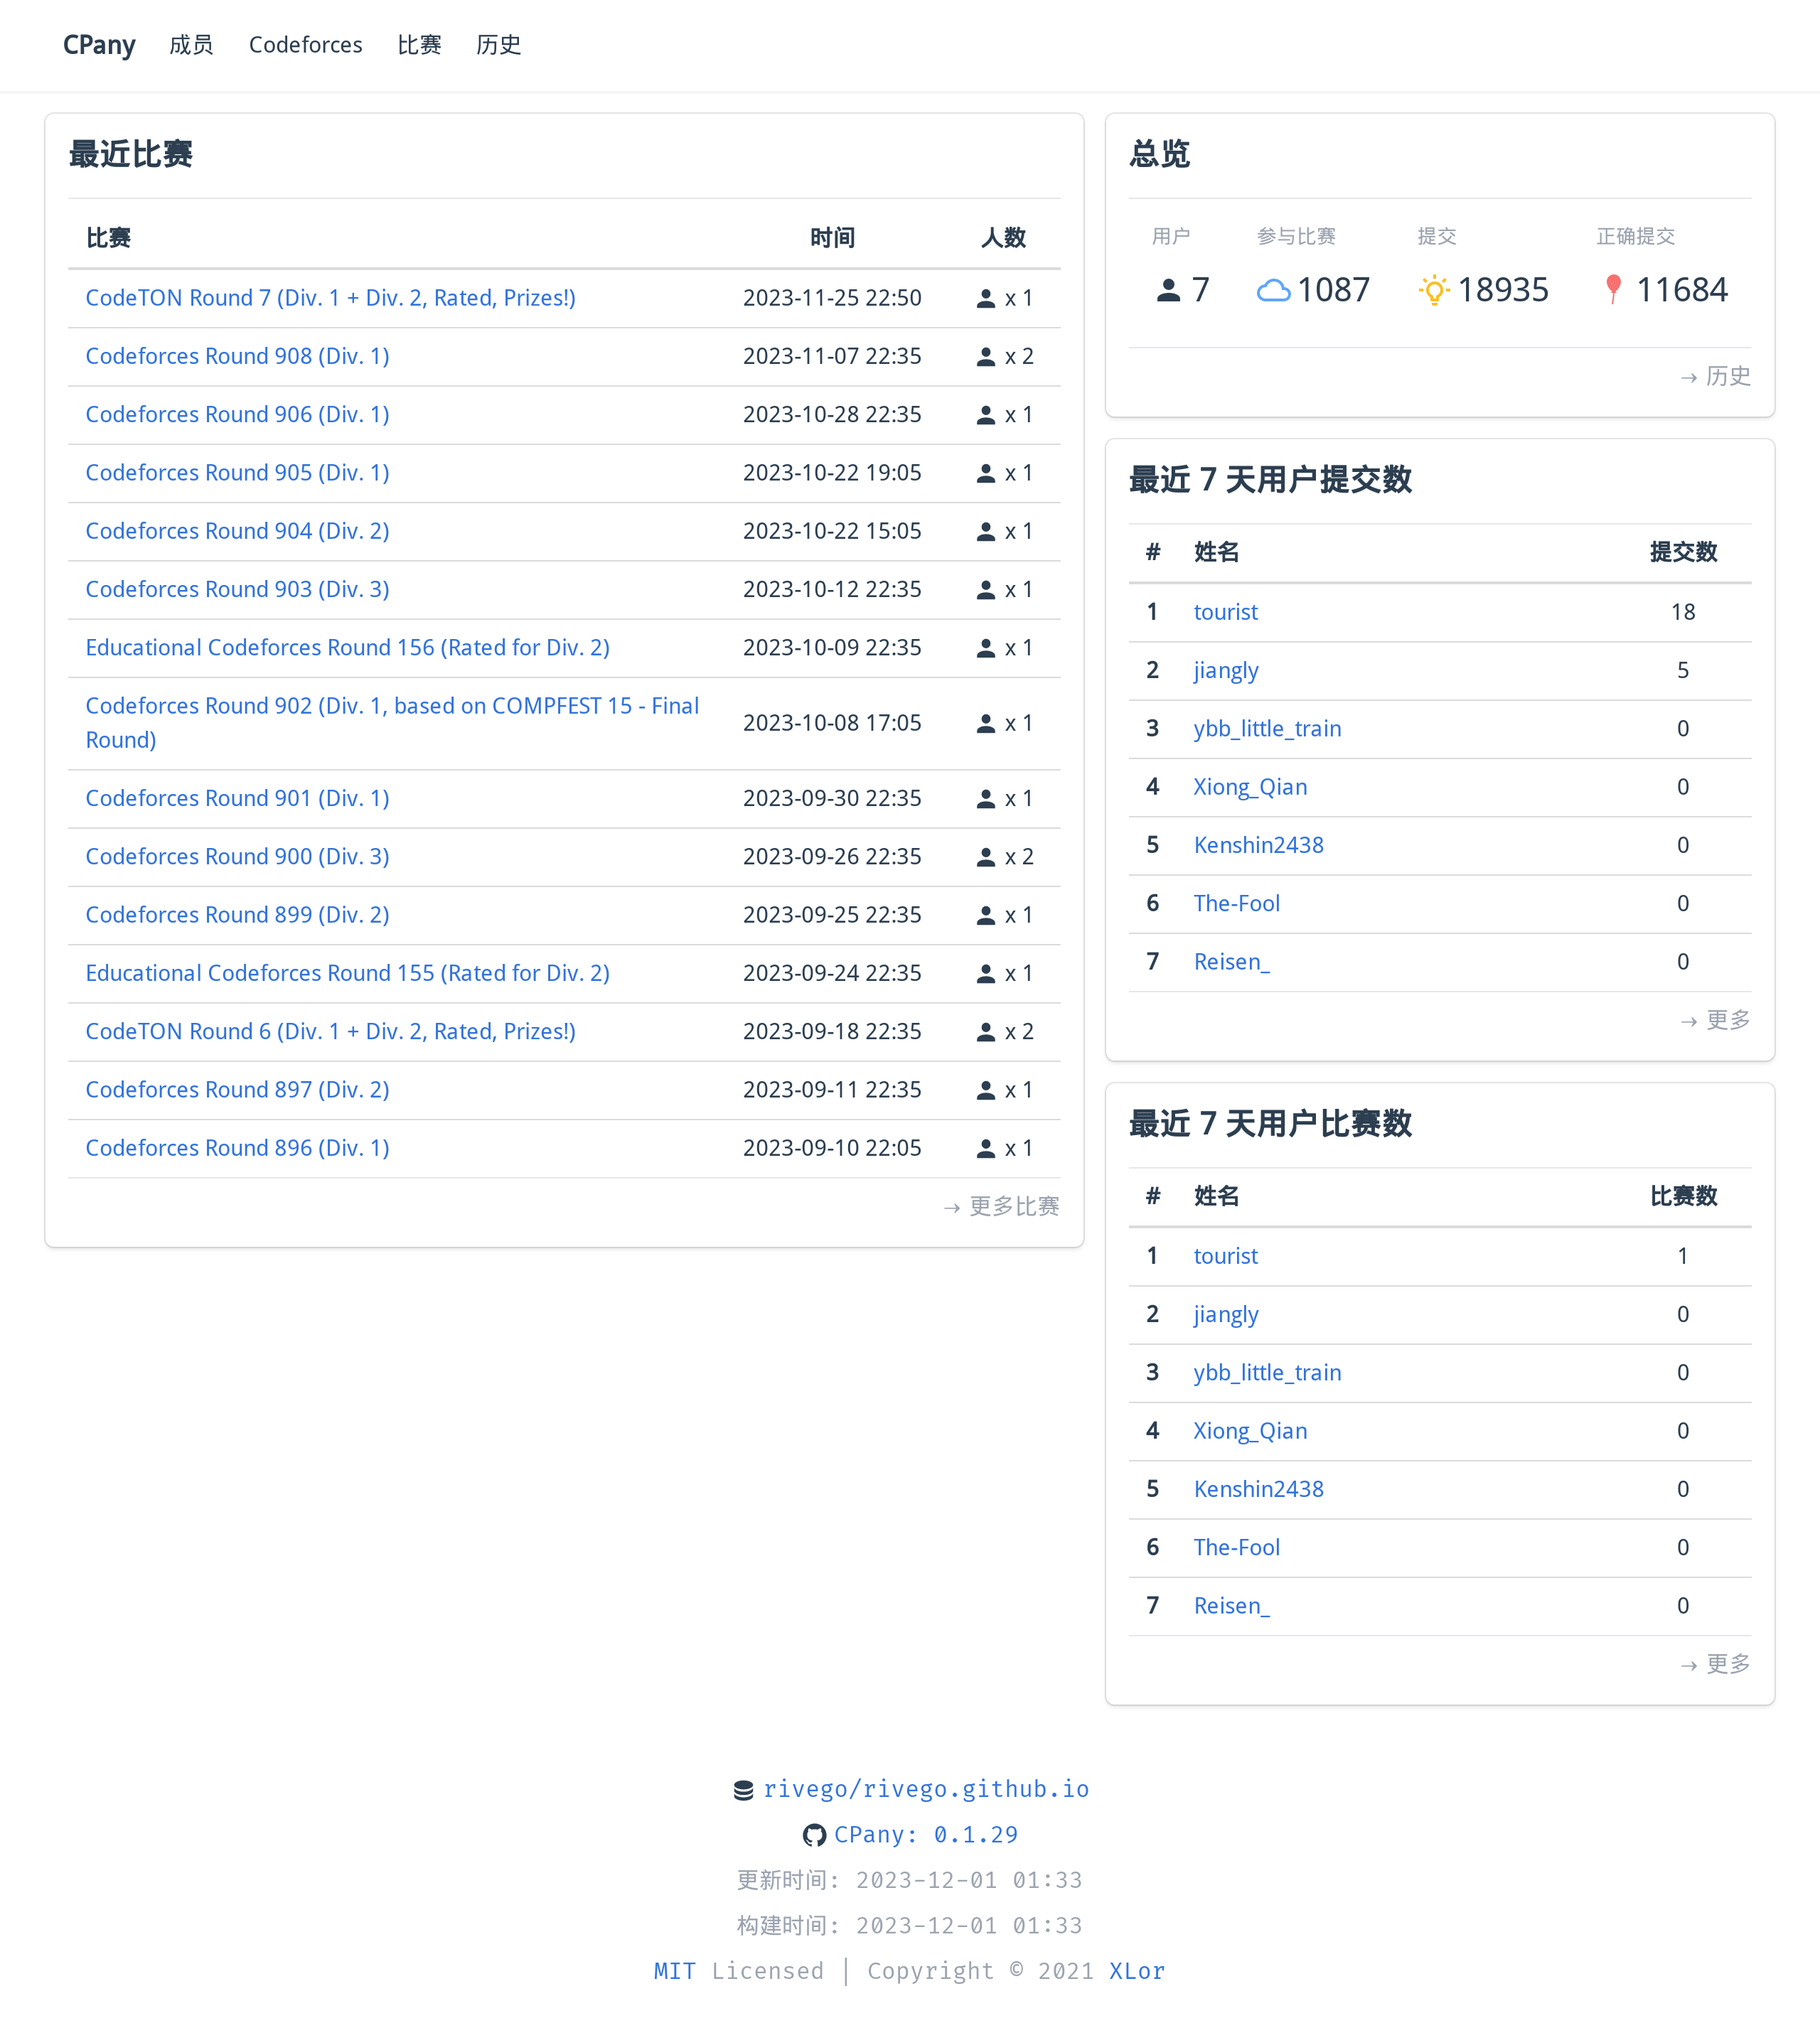
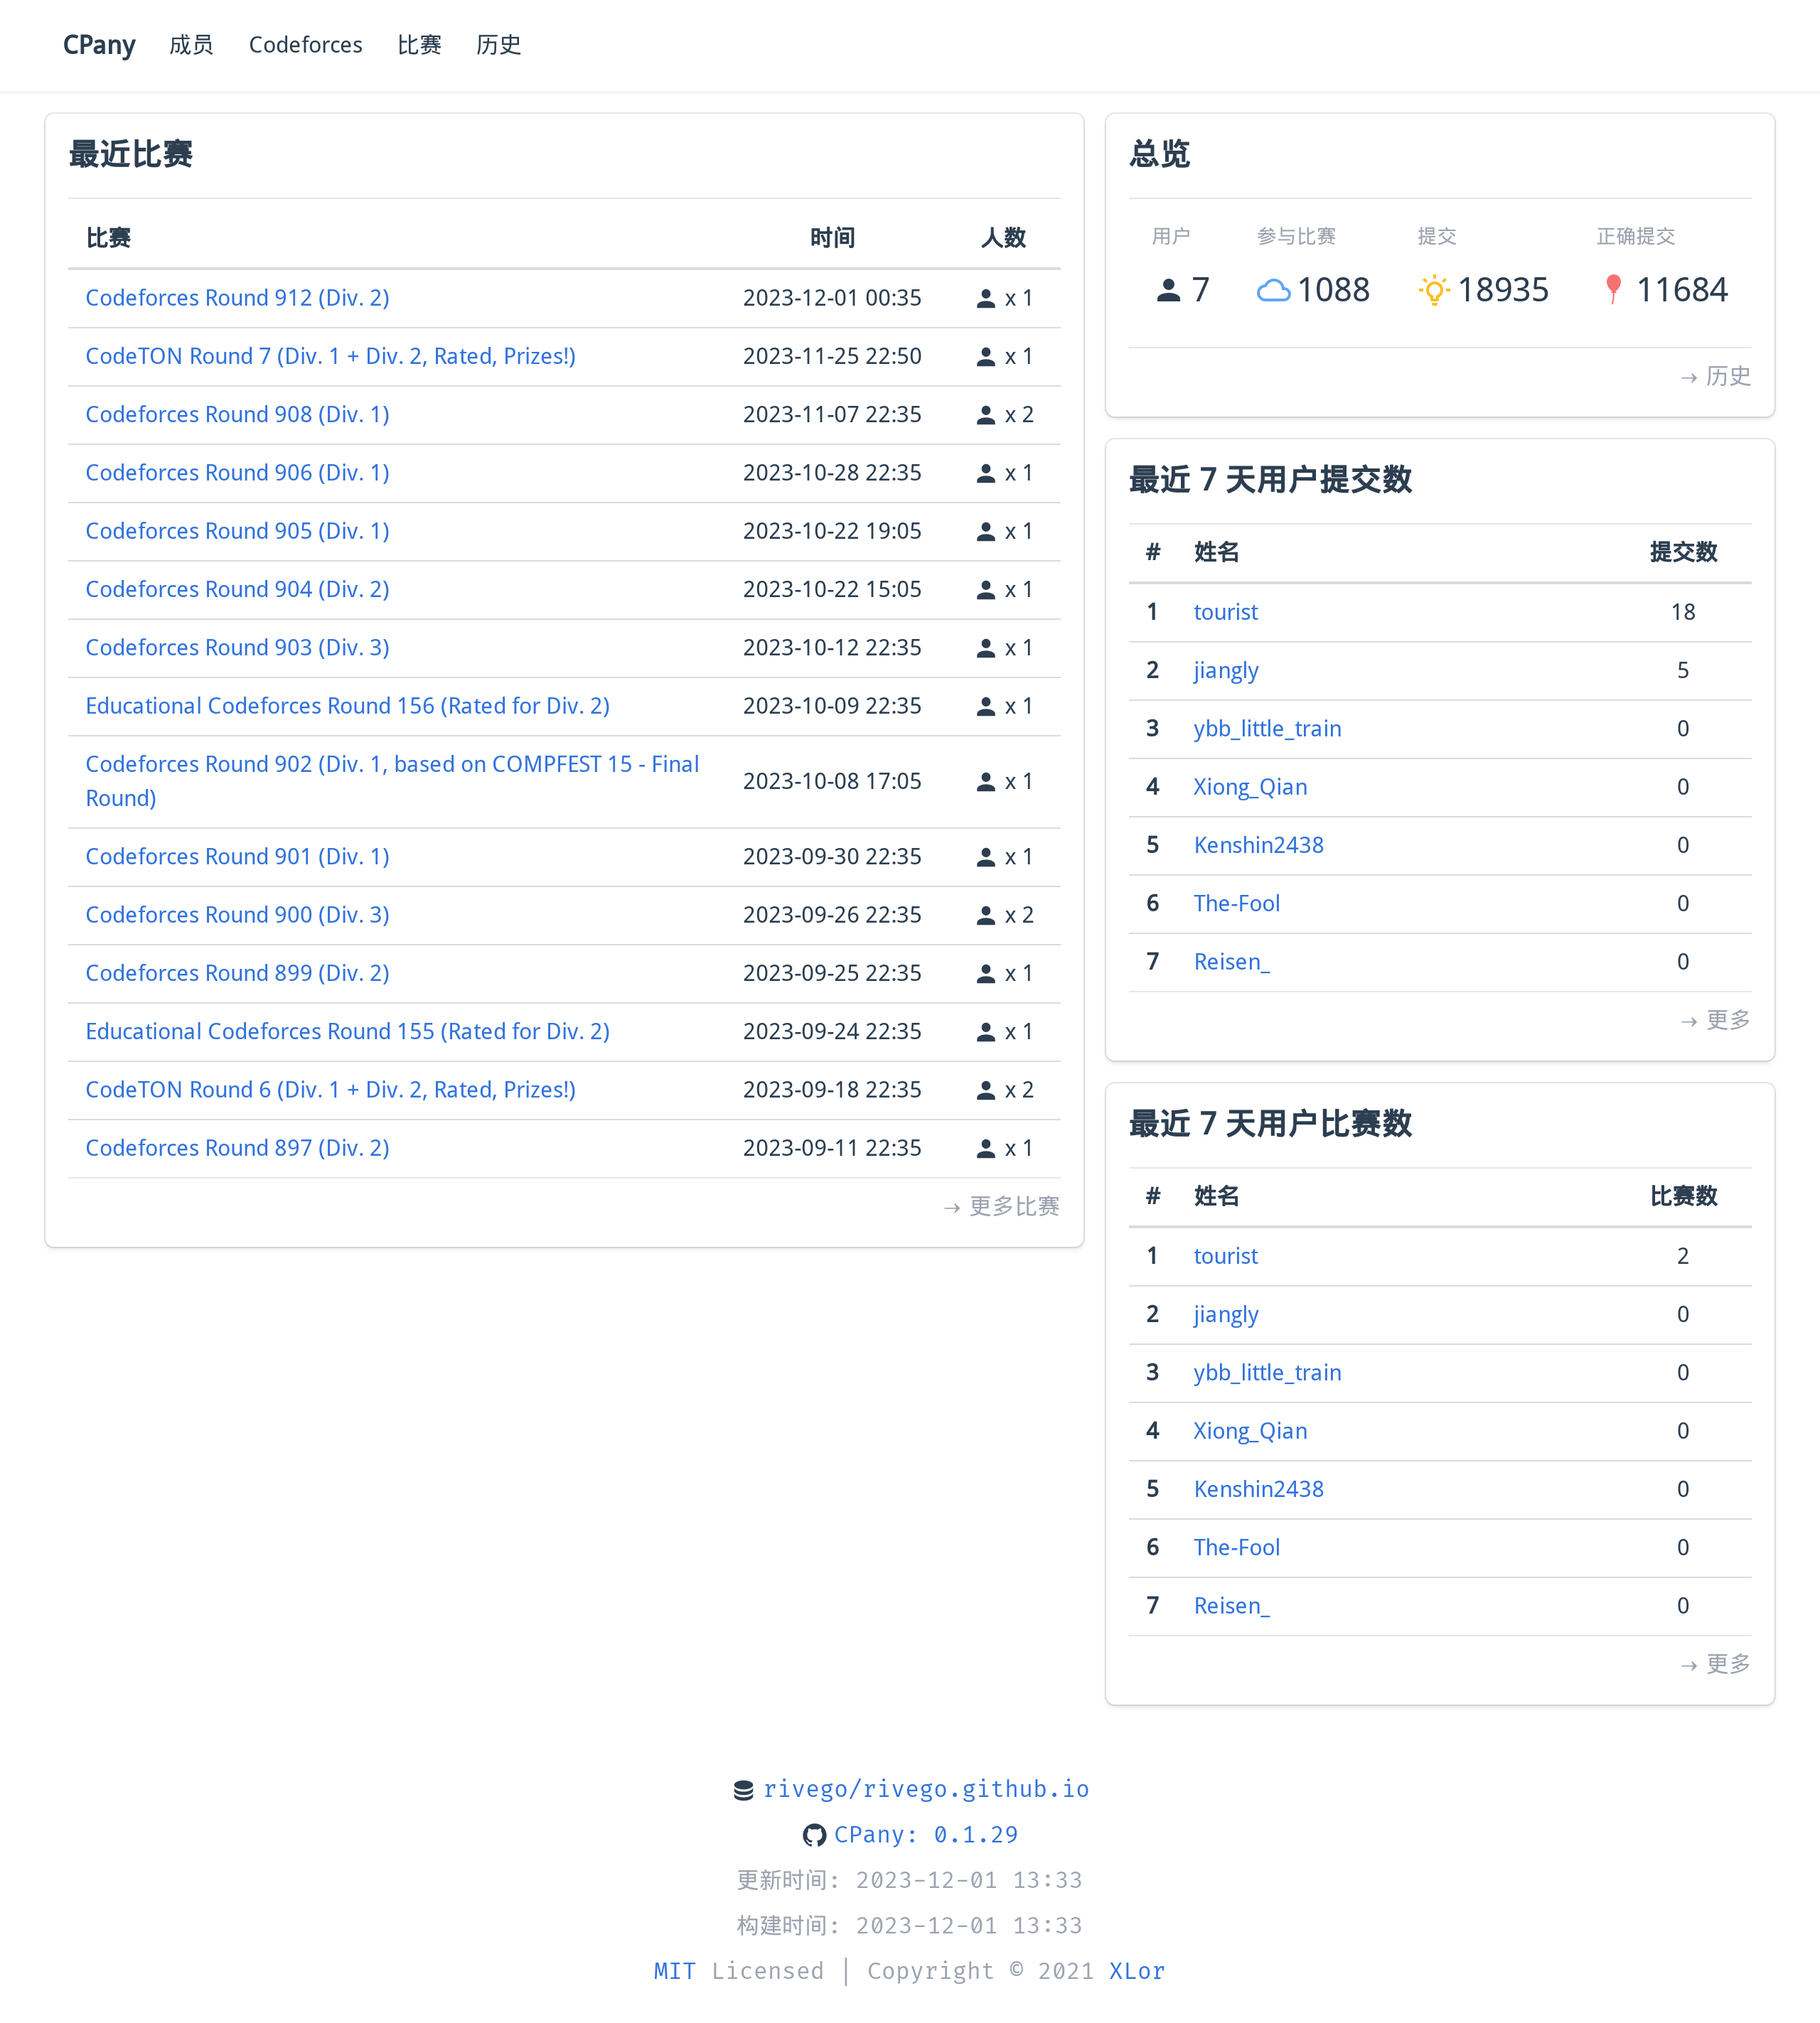
Fetch data on 2023-12-01 13:33

diff --git a/README.md b/README.md
@@ -3,7 +3,7 @@
 [![version](https://img.shields.io/npm/v/@cpany/cli?color=rgb%2850%2C203%2C86%29&label=CPany)](https://www.npmjs.com/package/@cpany/cli)
 
 <!-- START_SECTION: update_time -->
-更新时间：[2023-12-01 01:33](https://www.timeanddate.com/worldclock/fixedtime.html?msg=Fetch+data&iso=202312011701365586000013306&p1=237)
+更新时间：[2023-12-01 13:33](https://www.timeanddate.com/worldclock/fixedtime.html?msg=Fetch+data&iso=202312011701408780000133300&p1=237)
 <!-- END_SECTION: update_time -->
 
 ![members](./screenshot.png)
